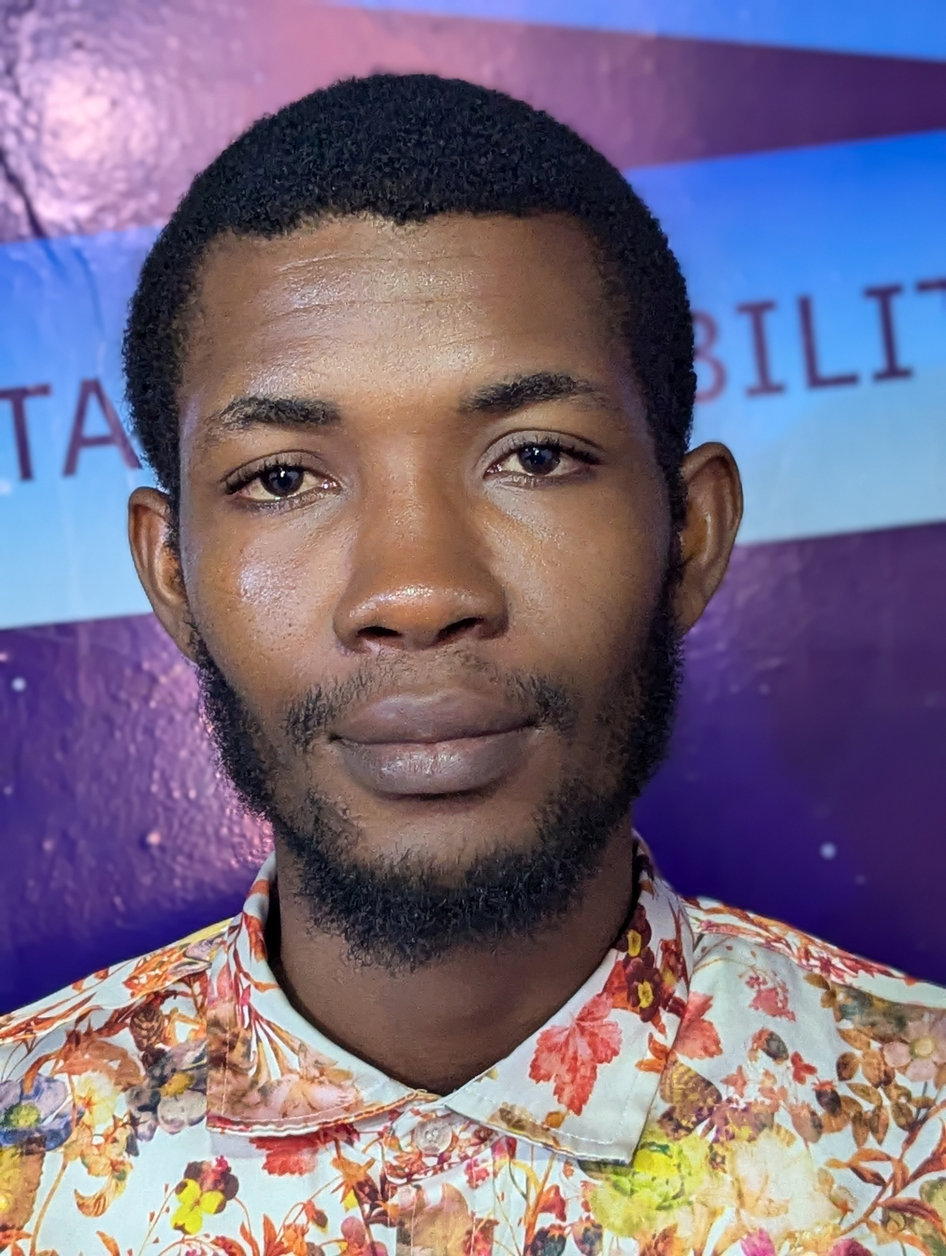
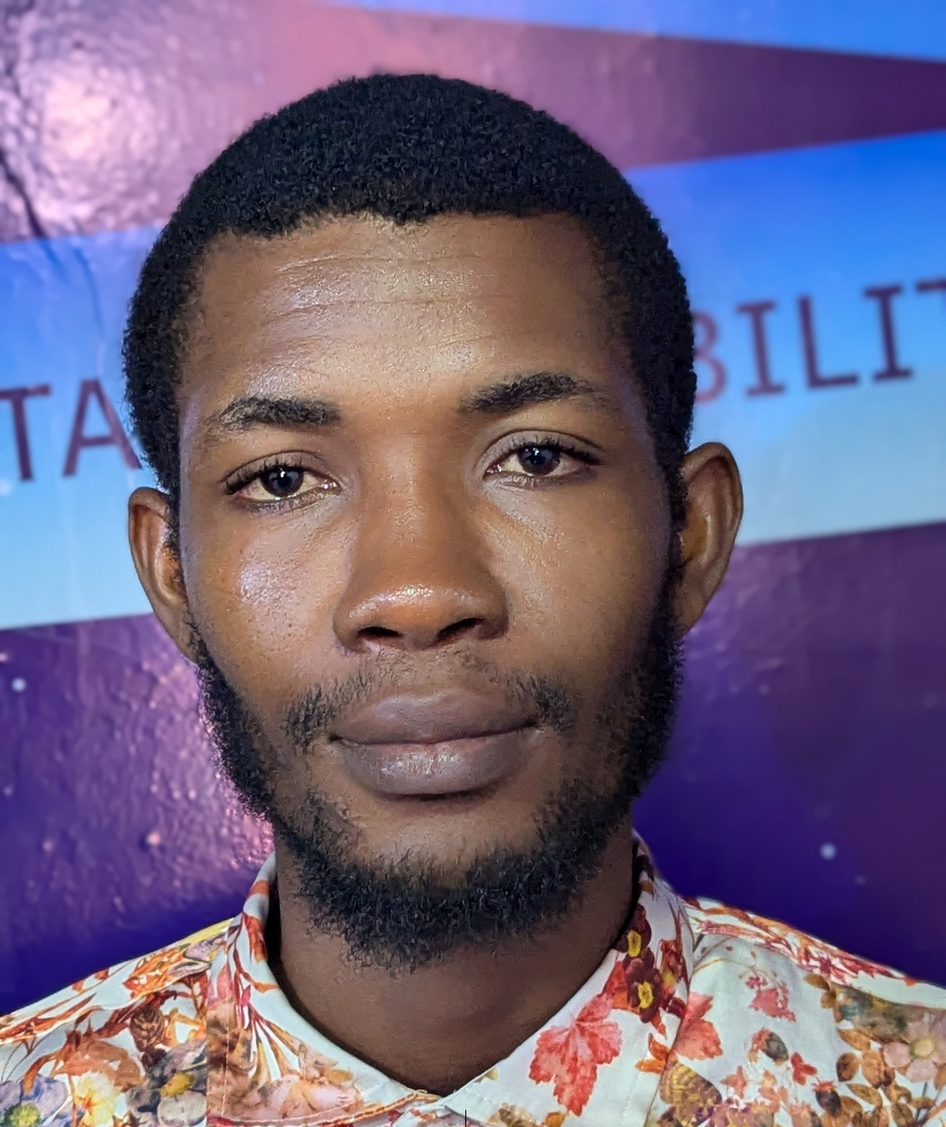
updated the team section images

diff --git a/components/home/Team.tsx b/components/home/Team.tsx
@@ -45,9 +45,9 @@ export const Team = (): React.ReactElement => {
   const { ref, isInView } = useScrollAnimation();
 
   const teamMembers = [
-    { id: 1, imageSrc: "/kodjo.jpg", name: "Labore Agbetsiassi" },
-    { id: 2, imageSrc: "/diana.jpg", name: "Najjuma Diana" },
-    { id: 3, imageSrc: "/druxamb.jpg", name: "Muhammad Amoo" },
+    { id: 1, imageSrc: "/kodjo.png", name: "Labore Agbetsiassi" },
+    { id: 2, imageSrc: "/diana.png", name: "Najjuma Diana" },
+    { id: 3, imageSrc: "/druxamb.png", name: "Muhammad Amoo" },
   ];
 
   return (
